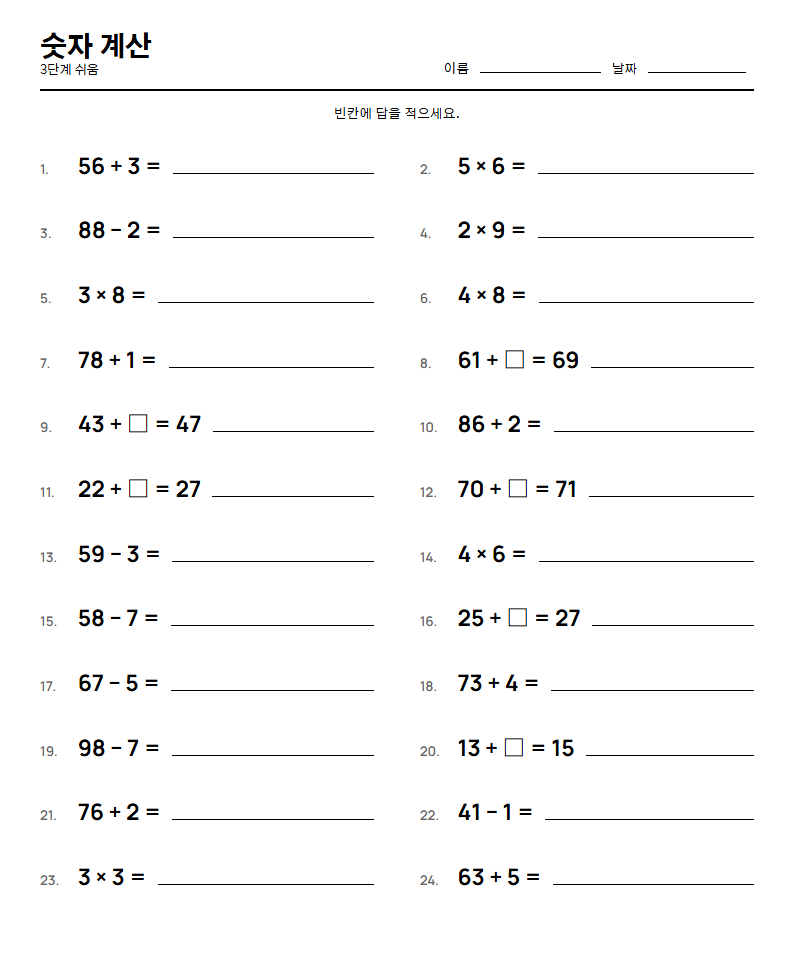
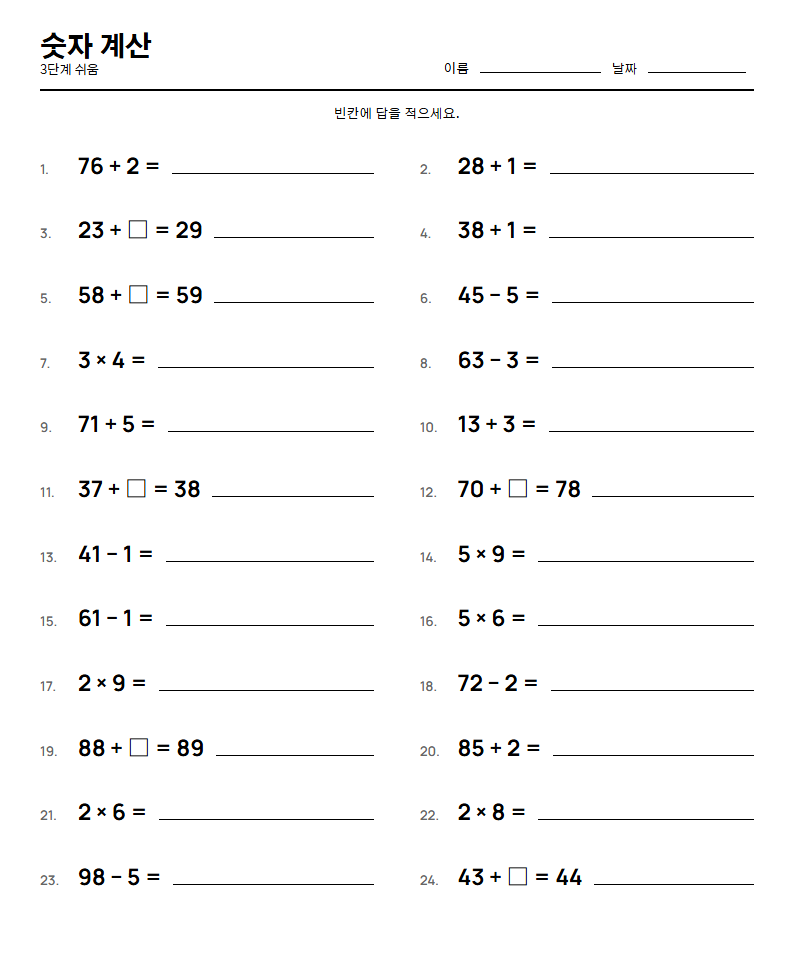
배포용 v33 — 문제 은행 대폭 늘림

diff --git a/math/index.html b/math/index.html
@@ -5,13 +5,13 @@
 <meta name="viewport" content="width=device-width, initial-scale=1">
 <meta name="naver-site-verification" content="f0a6ed93a3d035f79ca2cdc2ab93f8002d5d9ad0">
 <title>숫자 계산 · 새록 · 두뇌 훈련</title>
-<meta name="description" content="더하기 빼기로 머리 깨우기 — 모두 무료입니다. 회원가입도 필요 없습니다.">
+<meta name="description" content="더하고 빼고 곱하며 머리 깨우기 — 모두 무료입니다. 회원가입도 필요 없습니다.">
 <link rel="canonical" href="https://playsaerok.com/math/">
 <link rel="alternate" hreflang="en" href="https://playsaerok.com/en/math/">
 <link rel="alternate" hreflang="x-default" href="https://playsaerok.com/">
 <meta property="og:type" content="website">
 <meta property="og:title" content="숫자 계산 · 새록 · 두뇌 훈련">
-<meta property="og:description" content="더하기 빼기로 머리 깨우기 — 모두 무료입니다. 회원가입도 필요 없습니다.">
+<meta property="og:description" content="더하고 빼고 곱하며 머리 깨우기 — 모두 무료입니다. 회원가입도 필요 없습니다.">
 <meta property="og:url" content="https://playsaerok.com/math/">
 <meta property="og:site_name" content="새록 · 두뇌 훈련">
 <meta property="og:image" content="https://playsaerok.com/images/math-og.png">
@@ -35,7 +35,7 @@
 </header>
 <main class="doc__main">
 <h1>숫자 계산</h1>
-<p class="doc__lead">더하기 빼기로 머리 깨우기</p>
+<p class="doc__lead">더하고 빼고 곱하며 머리 깨우기</p>
 <p class="doc__cta"><a class="doc__btn" href="/#math">지금 해 보기</a><a class="doc__btn doc__btn--ghost" href="/print/">문제지 인쇄하기</a></p>
 <p>새록은 초기 치매 및 인지 장애 개선에 도움이 되는 게임을 무료로 이용하실 수 있는 두뇌 훈련 놀이터입니다. 컴퓨터·태블릿·휴대폰 어디서나 열리고, 화면이 불편하시면 문제를 인쇄하여 사용하실 수도 있습니다.</p>
 <figure class="doc__shot">
@@ -43,9 +43,9 @@
   <figcaption>실제로 인쇄되는 문제지입니다. 누를 때마다 새 문제가 만들어집니다.</figcaption>
 </figure>
 <h2>난이도 5단계</h2>
-<ul class="doc__lv"><li><b>1단계 첫걸음</b> — 한 자리 더하기 · 답이 10 이하</li><li><b>2단계 가볍게</b> — 한 자리 더하기와 빼기</li><li><b>3단계 쉬움</b> — 두 자리 ± 한 자리 · 받아올림 없음</li><li><b>4단계 보통</b> — 두 자리 ± 두 자리 · 받아올림 있음</li><li><b>5단계 어려움</b> — 두 자리 계산 + 세 수 이어 계산</li></ul>
+<ul class="doc__lv"><li><b>1단계 첫걸음</b> — 한 자리 더하기 · 답이 10 이하</li><li><b>2단계 가볍게</b> — 한 자리 더하기와 빼기 · 빈칸 채우기</li><li><b>3단계 쉬움</b> — 두 자리 ± 한 자리 · 쉬운 곱하기 · 빈칸 채우기</li><li><b>4단계 보통</b> — 두 자리 ± 두 자리 · 구구단 · 나눗셈 · 빈칸 채우기</li><li><b>5단계 어려움</b> — 세 자리 계산 · 두 자리 곱하기·나누기 · 세 수 이어 계산</li></ul>
 <h2>점수 규칙</h2>
-<table class="doc__tbl"><tbody><tr><th>난이도</th><td>1단계 한 자리 더하기 · 2단계 한 자리 더하기·빼기 · 3단계 두 자리 ± 한 자리(받아올림 없음) · 4단계 두 자리 ± 두 자리 · 5단계 세 수 이어 계산</td></tr><tr><th>정답 점수</th><td>최대 600점 · 맞힌 문제 수에 비례</td></tr><tr><th>시간 보너스</th><td>최대 300점 · 끝까지 풀었을 때만, 남은 시간에 비례</td></tr><tr><th>연속 정답 보너스</th><td>최대 100점 · 3연속 25 / 4연속 50 / 5연속 75 / 6연속 이상 100</td></tr><tr><th>오답 감점</th><td>없음 — 틀리면 정답을 보여 주고 다음 문제로 넘어갑니다</td></tr><tr><th>난이도 보너스</th><td>보통 +100점, 어려움 +250점 (끝까지 풀었을 때)</td></tr><tr><th>최고 점수</th><td>1~3단계 1,000점 / 보통 1,100점 / 어려움 1,250점</td></tr><tr><th>자판</th><td>PC에서는 숫자 키로 입력, Backspace 지우기, Enter 확인</td></tr></tbody></table>
+<table class="doc__tbl"><tbody><tr><th>난이도</th><td>1단계 한 자리 더하기 · 2단계 한 자리 더하기·빼기와 빈칸 채우기 · 3단계 두 자리 ± 한 자리와 쉬운 곱하기 · 4단계 두 자리 ± 두 자리와 구구단·나눗셈 · 5단계 세 자리 계산과 두 자리 곱하기·나누기, 세 수 이어 계산</td></tr><tr><th>정답 점수</th><td>최대 600점 · 맞힌 문제 수에 비례</td></tr><tr><th>시간 보너스</th><td>최대 300점 · 끝까지 풀었을 때만, 남은 시간에 비례</td></tr><tr><th>연속 정답 보너스</th><td>최대 100점 · 3연속 25 / 4연속 50 / 5연속 75 / 6연속 이상 100</td></tr><tr><th>오답 감점</th><td>없음 — 틀리면 정답을 보여 주고 다음 문제로 넘어갑니다</td></tr><tr><th>난이도 보너스</th><td>보통 +100점, 어려움 +250점 (끝까지 풀었을 때)</td></tr><tr><th>최고 점수</th><td>1~3단계 1,000점 / 보통 1,100점 / 어려움 1,250점</td></tr><tr><th>자판</th><td>PC에서는 숫자 키로 입력, Backspace 지우기, Enter 확인</td></tr></tbody></table>
 <p class="doc__note">제가 치매를 앓으시는 어머니를 위해 인터넷에서 문제를 검색하다가 찾기가 너무 힘들어 직접 만들어 쓰던 것입니다. 다른 분들에게도 도움이 되면 좋겠다는 생각에 올려 봅니다.</p>
 </main>
 <nav class="doc__more">

diff --git a/en/math/index.html b/en/math/index.html
@@ -5,13 +5,13 @@
 <meta name="viewport" content="width=device-width, initial-scale=1">
 <meta name="naver-site-verification" content="f0a6ed93a3d035f79ca2cdc2ab93f8002d5d9ad0">
 <title>Mental Math · Saerok · Brain Training</title>
-<meta name="description" content="Wake up your mind with adding and subtracting — Everything is free. No sign-up.">
+<meta name="description" content="더하고 빼고 곱하며 머리 깨우기 — Everything is free. No sign-up.">
 <link rel="canonical" href="https://playsaerok.com/en/math/">
 <link rel="alternate" hreflang="ko" href="https://playsaerok.com/math/">
 <link rel="alternate" hreflang="x-default" href="https://playsaerok.com/">
 <meta property="og:type" content="website">
 <meta property="og:title" content="Mental Math · Saerok · Brain Training">
-<meta property="og:description" content="Wake up your mind with adding and subtracting — Everything is free. No sign-up.">
+<meta property="og:description" content="더하고 빼고 곱하며 머리 깨우기 — Everything is free. No sign-up.">
 <meta property="og:url" content="https://playsaerok.com/en/math/">
 <meta property="og:site_name" content="Saerok · Brain Training">
 <meta property="og:image" content="https://playsaerok.com/images/math-og.png">
@@ -35,7 +35,7 @@
 </header>
 <main class="doc__main">
 <h1>Mental Math</h1>
-<p class="doc__lead">Wake up your mind with adding and subtracting</p>
+<p class="doc__lead">더하고 빼고 곱하며 머리 깨우기</p>
 <p class="doc__cta"><a class="doc__btn" href="/?lang=en#math">Play now</a><a class="doc__btn doc__btn--ghost" href="/en/print/">Free printable worksheets</a></p>
 <p>Saerok is a brain-training playground where games that help with early dementia and mild cognitive decline are free to play. It works on a computer, a tablet or a phone, and if the screen is hard to use you can print the puzzles instead.</p>
 <figure class="doc__shot">
@@ -43,9 +43,9 @@
   <figcaption>A real worksheet. Every sheet is generated fresh when you print.</figcaption>
 </figure>
 <h2>Five levels</h2>
-<ul class="doc__lv"><li><b>1. First steps</b> — Single digits, adding · answers up to 10</li><li><b>2. Gentle</b> — Single digits, adding and subtracting</li><li><b>3. Easy</b> — Two digits ± one digit · no carrying</li><li><b>4. Normal</b> — Two digits ± two digits · with carrying</li><li><b>5. Hard</b> — Two digits, and three numbers in a row</li></ul>
+<ul class="doc__lv"><li><b>1. First steps</b> — Single digits, adding · answers up to 10</li><li><b>2. Gentle</b> — 한 자리 더하기와 빼기 · 빈칸 채우기</li><li><b>3. Easy</b> — 두 자리 ± 한 자리 · 쉬운 곱하기 · 빈칸 채우기</li><li><b>4. Normal</b> — 두 자리 ± 두 자리 · 구구단 · 나눗셈 · 빈칸 채우기</li><li><b>5. Hard</b> — 세 자리 계산 · 두 자리 곱하기·나누기 · 세 수 이어 계산</li></ul>
 <h2>Scoring</h2>
-<table class="doc__tbl"><tbody><tr><th>Level</th><td>Level 1 single-digit adding · 2 adding and subtracting · 3 two ± one digit (no carrying) · 4 two ± two digits · 5 three numbers in a row</td></tr><tr><th>Correct answers</th><td>Up to 600 · in proportion to correct answers</td></tr><tr><th>Time bonus</th><td>Up to 300 · only if you finish, in proportion to time left</td></tr><tr><th>Streak bonus</th><td>Up to 100 · 3 in a row 25 / 4 in a row 50 / 5 in a row 75 / 6 or more 100</td></tr><tr><th>Wrong-answer penalty</th><td>None — a wrong answer just shows the right one and moves on</td></tr><tr><th>Level bonus</th><td>Normal +100, Hard +250 (when you finish)</td></tr><tr><th>Top score</th><td>Levels 1–3: 1,000 · Normal: 1,100 · Hard: 1,250</td></tr><tr><th>Keyboard</th><td>On a computer: number keys to type, Backspace to erase, Enter to confirm</td></tr></tbody></table>
+<table class="doc__tbl"><tbody><tr><th>Level</th><td>1단계 한 자리 더하기 · 2단계 한 자리 더하기·빼기와 빈칸 채우기 · 3단계 두 자리 ± 한 자리와 쉬운 곱하기 · 4단계 두 자리 ± 두 자리와 구구단·나눗셈 · 5단계 세 자리 계산과 두 자리 곱하기·나누기, 세 수 이어 계산</td></tr><tr><th>Correct answers</th><td>Up to 600 · in proportion to correct answers</td></tr><tr><th>Time bonus</th><td>Up to 300 · only if you finish, in proportion to time left</td></tr><tr><th>Streak bonus</th><td>Up to 100 · 3 in a row 25 / 4 in a row 50 / 5 in a row 75 / 6 or more 100</td></tr><tr><th>Wrong-answer penalty</th><td>None — a wrong answer just shows the right one and moves on</td></tr><tr><th>Level bonus</th><td>Normal +100, Hard +250 (when you finish)</td></tr><tr><th>Top score</th><td>Levels 1–3: 1,000 · Normal: 1,100 · Hard: 1,250</td></tr><tr><th>Keyboard</th><td>On a computer: number keys to type, Backspace to erase, Enter to confirm</td></tr></tbody></table>
 <p class="doc__note">I went looking online for puzzles for my mother, who lives with dementia, and found it far too hard to find good ones — so I made these for her. I am putting them here in the hope that they help someone else too.</p>
 </main>
 <nav class="doc__more">

diff --git a/print/index.html b/print/index.html
@@ -41,7 +41,7 @@
 <h2>문제지 미리 보기</h2>
 <div class="doc__tiles"><a class="doc__tile" href="/sudoku/"><img src="/images/sudoku-worksheet.png" width="794" height="835" loading="lazy" alt="스도쿠 무료 인쇄 문제지 — 어르신 치매 예방 두뇌 훈련 활동지 (A4 한 장)"><span>스도쿠</span></a><a class="doc__tile" href="/wordsearch/"><img src="/images/wordsearch-worksheet.png" width="794" height="906" loading="lazy" alt="낱말찾기 무료 인쇄 문제지 — 어르신 치매 예방 두뇌 훈련 활동지 (A4 한 장)"><span>낱말찾기</span></a><a class="doc__tile" href="/math/"><img src="/images/math-worksheet.png" width="794" height="963" loading="lazy" alt="숫자 계산 무료 인쇄 문제지 — 어르신 치매 예방 두뇌 훈련 활동지 (A4 한 장)"><span>숫자 계산</span></a><a class="doc__tile" href="/wordorder/"><img src="/images/wordorder-worksheet.png" width="794" height="1113" loading="lazy" alt="단어 순서 무료 인쇄 문제지 — 어르신 치매 예방 두뇌 훈련 활동지 (A4 한 장)"><span>단어 순서</span></a><a class="doc__tile" href="/coloring/"><img src="/images/coloring-worksheet.png" width="794" height="887" loading="lazy" alt="색칠 공부 무료 인쇄 문제지 — 어르신 치매 예방 두뇌 훈련 활동지 (A4 한 장)"><span>색칠 공부</span></a><a class="doc__tile" href="/spot/"><img src="/images/spot-worksheet.png" width="794" height="1068" loading="lazy" alt="틀린그림찾기 무료 인쇄 문제지 — 어르신 치매 예방 두뇌 훈련 활동지 (A4 한 장)"><span>틀린그림찾기</span></a></div>
 <h2>인쇄 가능 문제지</h2>
-<ul class="doc__lv"><li><a href="/sudoku/"><b>스도쿠</b></a> — 숫자로 하는 두뇌 체조</li><li><a href="/wordsearch/"><b>낱말찾기</b></a> — 글자판 속 숨은 낱말</li><li><a href="/math/"><b>숫자 계산</b></a> — 더하기 빼기로 머리 깨우기</li><li><a href="/wordorder/"><b>단어 순서</b></a> — 뒤섞인 글자를 바로잡기</li><li><a href="/coloring/"><b>색칠 공부</b></a> — 번호대로 색을 채워 가는 시간</li><li><a href="/spot/"><b>틀린그림찾기</b></a> — 두 그림을 견주어 보는 눈</li></ul>
+<ul class="doc__lv"><li><a href="/sudoku/"><b>스도쿠</b></a> — 숫자로 하는 두뇌 체조</li><li><a href="/wordsearch/"><b>낱말찾기</b></a> — 글자판 속 숨은 낱말</li><li><a href="/math/"><b>숫자 계산</b></a> — 더하고 빼고 곱하며 머리 깨우기</li><li><a href="/wordorder/"><b>단어 순서</b></a> — 뒤섞인 글자를 바로잡기</li><li><a href="/coloring/"><b>색칠 공부</b></a> — 번호대로 색을 채워 가는 시간</li><li><a href="/spot/"><b>틀린그림찾기</b></a> — 두 그림을 견주어 보는 눈</li></ul>
 <h2>인쇄 방법</h2>
 <ol class="doc__lv"><li>홈 화면 아래쪽의 「문제 인쇄」을 누릅니다.</li><li>어떤 게임을, 몇 단계로, 몇 장 인쇄할지 고릅니다.</li><li>「만들기」를 누르면 인쇄 창이 열립니다.</li><li>종이에 찍지 않고 파일로 두시려면, 인쇄 창의 프린터를 「Microsoft Print to PDF」나 「PDF로 저장」으로 바꾸세요.</li></ol>
 <p>문제지에는 시간·점수 같은 화면용 정보가 인쇄되지 않습니다. 정답지도 함께 인쇄하실 수 있습니다.</p>

diff --git a/en/print/index.html b/en/print/index.html
@@ -41,7 +41,7 @@
 <h2>Worksheet preview</h2>
 <div class="doc__tiles"><a class="doc__tile" href="/en/sudoku/"><img src="/images/sudoku-worksheet.png" width="794" height="835" loading="lazy" alt="Sudoku printable worksheet — free A4 brain training activity sheet for seniors"><span>Sudoku</span></a><a class="doc__tile" href="/en/math/"><img src="/images/math-worksheet.png" width="794" height="963" loading="lazy" alt="Mental Math printable worksheet — free A4 brain training activity sheet for seniors"><span>Mental Math</span></a><a class="doc__tile" href="/en/coloring/"><img src="/images/coloring-worksheet.png" width="794" height="887" loading="lazy" alt="Colour by Number printable worksheet — free A4 brain training activity sheet for seniors"><span>Colour by Number</span></a><a class="doc__tile" href="/en/spot/"><img src="/images/spot-worksheet.png" width="794" height="1068" loading="lazy" alt="Spot the Difference printable worksheet — free A4 brain training activity sheet for seniors"><span>Spot the Difference</span></a></div>
 <h2>What you can print</h2>
-<ul class="doc__lv"><li><a href="/en/sudoku/"><b>Sudoku</b></a> — A workout for the mind, in numbers</li><li><a href="/en/math/"><b>Mental Math</b></a> — Wake up your mind with adding and subtracting</li><li><a href="/en/coloring/"><b>Colour by Number</b></a> — Fill in the colours, number by number</li><li><a href="/en/spot/"><b>Spot the Difference</b></a> — An eye for what has changed</li></ul>
+<ul class="doc__lv"><li><a href="/en/sudoku/"><b>Sudoku</b></a> — A workout for the mind, in numbers</li><li><a href="/en/math/"><b>Mental Math</b></a> — 더하고 빼고 곱하며 머리 깨우기</li><li><a href="/en/coloring/"><b>Colour by Number</b></a> — Fill in the colours, number by number</li><li><a href="/en/spot/"><b>Spot the Difference</b></a> — An eye for what has changed</li></ul>
 <h2>How to print</h2>
 <ol class="doc__lv"><li>Open the home screen and tap “Print puzzles” near the bottom.</li><li>Choose which game, which level and how many sheets.</li><li>Tap “Make it” and the print window opens.</li><li>To save a file instead of printing, set the printer to “Microsoft Print to PDF” or “Save as PDF”.</li></ol>
 <p>Times and scores are never printed on a worksheet. Answer sheets are optional.</p>

diff --git a/sw.js b/sw.js
@@ -4,7 +4,7 @@
  * 인터넷이 없거나 서버가 꺼져 있으면 저장해 둔 파일로 실행합니다.
  * 파일을 고친 뒤에는 아래 VERSION 을 올려 주세요. (js/app.js 의 APP_VERSION 도 같이)
  */
-var VERSION = 'malgeunddeul-v43';
+var VERSION = 'malgeunddeul-v44';
 /* 아래 목록은 '최소한 이것만은 저장해 둔다'는 안전망이다.
  * 실제로 저장할 파일은 install 때 index.html 을 읽어서 스스로 찾아낸다.
  * 그래서 새 게임 파일을 index.html 에 한 줄 넣으면 이 목록은 손대지 않아도 된다. */

diff --git a/js/app.js b/js/app.js
@@ -1,7 +1,7 @@
 /* 새록 — 화면 전환과 홈·기록 화면 */
 window.App = (function () {
 
-  var APP_VERSION = 'v43';                // sw.js 의 VERSION 과 함께 올린다
+  var APP_VERSION = 'v44';                // sw.js 의 VERSION 과 함께 올린다
 
   /* 게임 목록은 index.html 에서 불러온 순서 그대로 저절로 만들어진다.
    * 새 게임을 넣을 때 여기에 이름을 적을 필요가 없다 —
